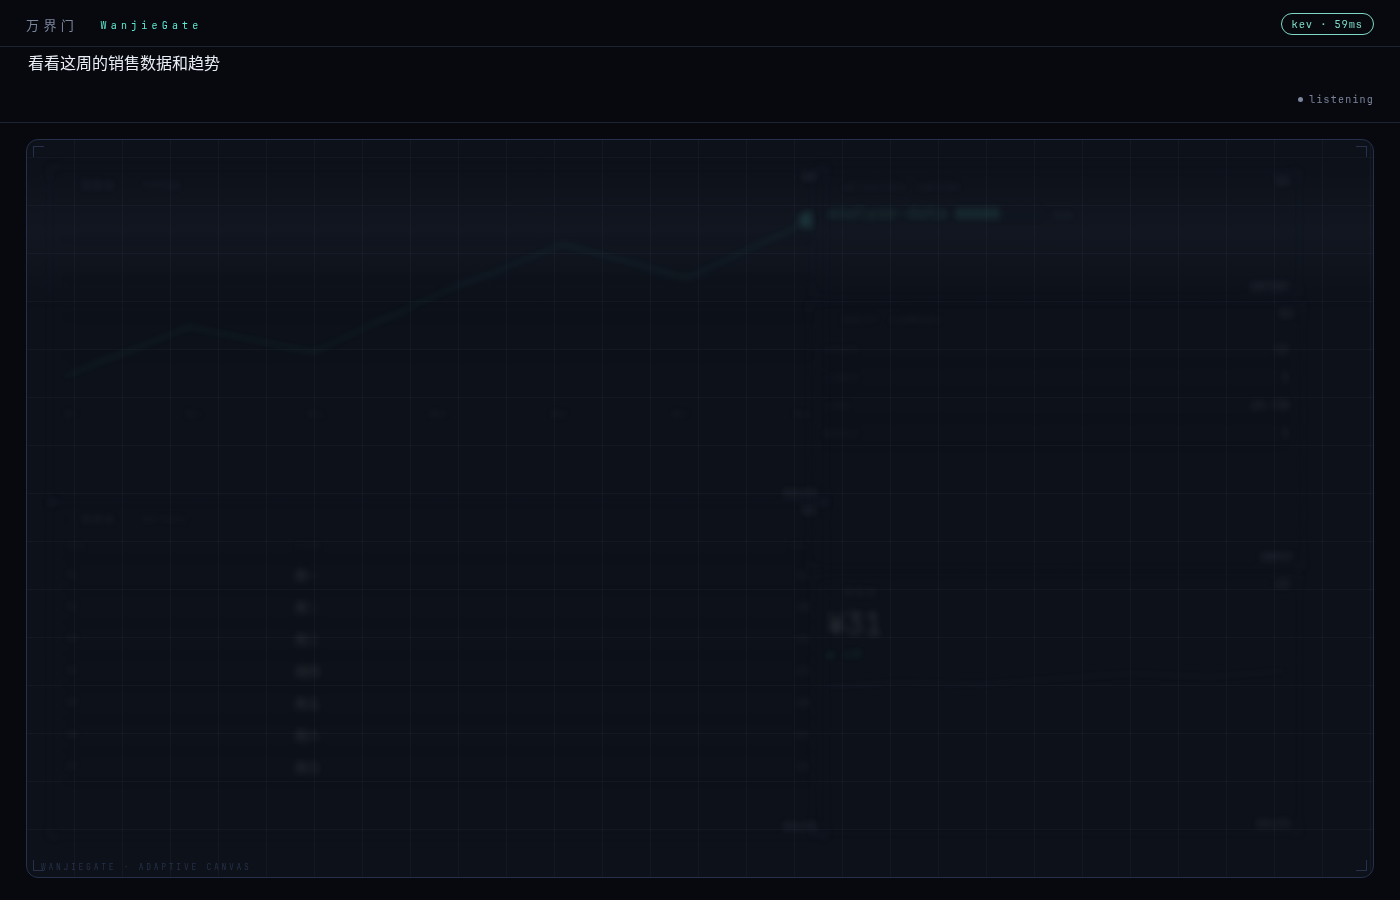
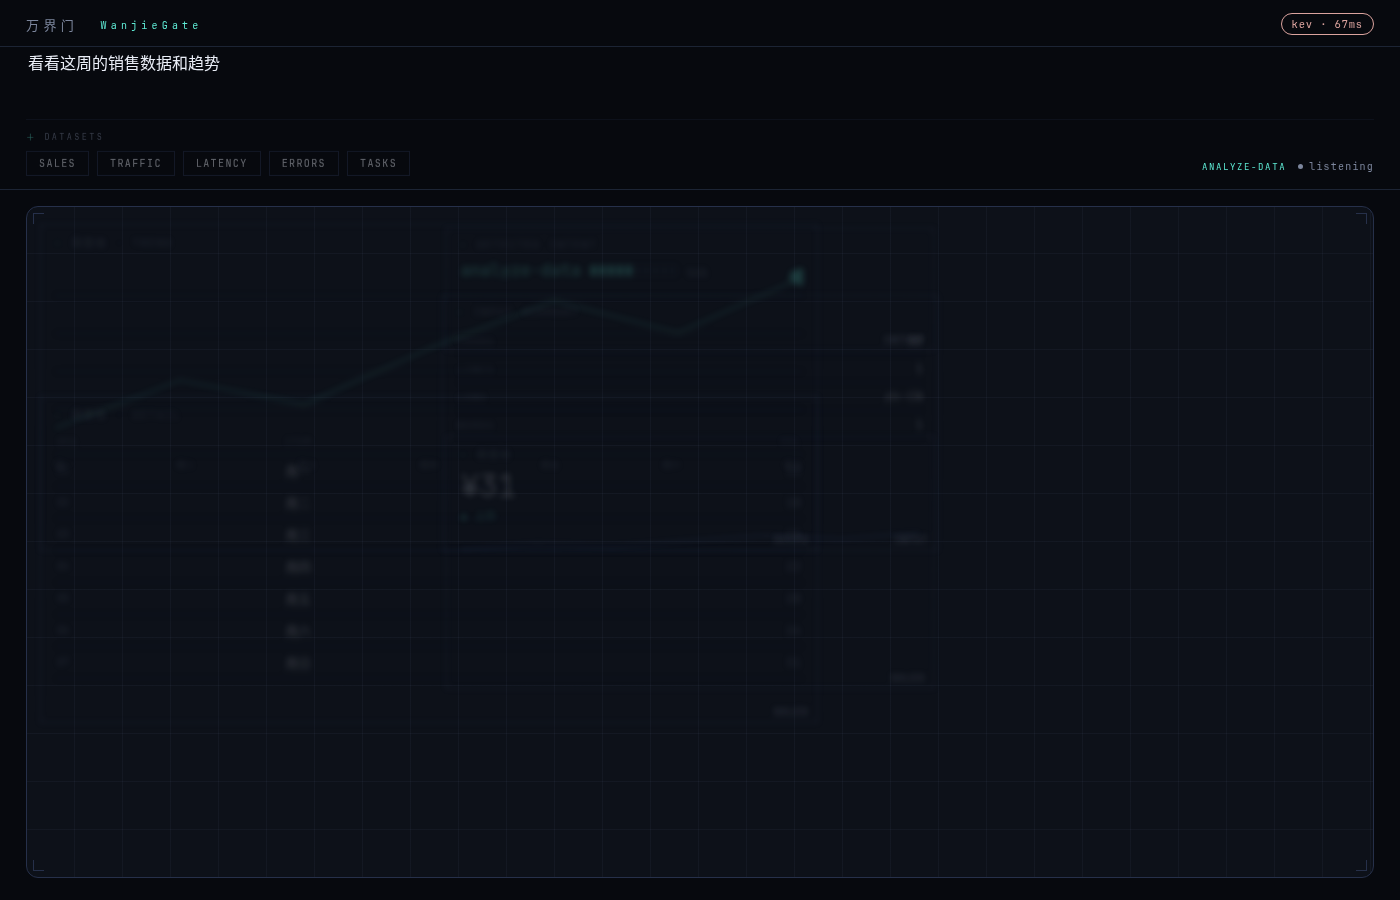
输入框自适应附件 + 回归极简线稿
- 附件素材库(manifest.attachments):photos/news/logs/tasks/datasets/
  services,每类一道 noul 二元题(0.8B 对二元题区分度远好于 7 选 1)
- 日记→今日照片条,写作→新闻列表,排查→错误日志,数据→可点击
  数据集 chips(__rebind 实时换绑),计划→任务清单,监控→服务状态
- 输入框按意图换 placeholder,pulse 区显示 mode 标签
- 砍掉 fc 角括号/idx 序号/扫描带/水印,回归极简:留真实数据标签
- selftest 新增日记语境断言(attach=photos)

Generated with [Devin](https://devin.ai)

diff --git a/static/app.js b/static/app.js
@@ -32,6 +32,8 @@ function buildQuestions() {
     q["vis_" + id] = {type: "noul", instructions: c.ask};
     if (c.bind) q["bind_" + id] = {type: "choice", instructions: c.bind.question, criteria: c.bind.options};
   }
+  for (const [ctx, a] of Object.entries(manifest.attachments || {}))
+    q["att_" + ctx] = {type: "noul", instructions: a.cue};
   return q;
 }
 
@@ -85,6 +87,18 @@ function applyAnswers(a) {
   if (a.layout) layoutMode = a.layout.choice;
   if (a.density) densityCap = [0, 2, 4, 7, 10][Math.round(a.density.score)] ?? 4;
   if (a.emphasis) emphasis = a.emphasis.choice;
+  { // 附件:取 noul 概率最高的素材类型,>0.3 才显示
+    let best = "none", bp = 0;
+    for (const ctx of Object.keys(manifest.attachments || {})) {
+      const p = a["att_" + ctx]?.noul ?? 0;
+      if (p > bp) { bp = p; best = ctx; }
+    }
+    setAttach(bp > 0.3 ? best : "none");
+  }
+  if (a.intent) {
+    $("#mode").textContent = committed ? intent.choice : "";
+    input.placeholder = (manifest.prompts || {})[intent.choice] || manifest.prompts?.explore || input.placeholder;
+  }
   const probs = {};
   for (const id of Object.keys(manifest.components))
     probs[id] = a["vis_" + id]?.noul ?? 0;
@@ -118,6 +132,49 @@ function setBinding(id, key) {
   const c = cards.get(id);
   if (c && c.bound !== key && manifest.datasets[key]) { c.bound = key; renderCard(id); }
 }
+
+/* ---------- 输入框的自适应附件 ---------- */
+const attachEl = document.getElementById("attach");
+let attachCtx = "";
+function setAttach(ctx) {
+  if (ctx === attachCtx) { attachEl.style.opacity = committed ? 1 : .5; return; }
+  attachCtx = ctx;
+  const on = ctx && ctx !== "none";
+  attachEl.innerHTML = on ? buildAttach(ctx) : "";
+  attachEl.classList.toggle("on", on);
+  attachEl.style.opacity = committed ? 1 : .5;
+}
+
+function buildAttach(ctx) {
+  const items = manifest.attachments?.[ctx]?.items;
+  const head = `<div class="a-head">${ctx}</div>`;
+  switch (ctx) {
+    case "photos":
+      return head + `<div class="a-photos">${(items || []).map(p =>
+        `<div class="a-ph" style="--h:${p.h}"><b>${p.time}</b><span>${esc(p.label)}</span></div>`).join("")}</div>`;
+    case "news":
+      return head + (items || []).map(n =>
+        `<div class="a-row"><i>${n.time}</i><b>${esc(n.src)}</b><span>${esc(n.title)}</span></div>`).join("");
+    case "logs":
+      return head + (items || []).map(l =>
+        `<div class="a-row"><i>${l.time}</i><b class="lv-${l.lvl}">${l.lvl}</b><span>${esc(l.msg)}</span></div>`).join("");
+    case "tasks": {
+      const d = manifest.datasets.tasks;
+      return head + d.rows.map(r =>
+        `<div class="a-row"><i class="tk ${r[1] === "完成" ? "done" : r[1] === "进行中" ? "doing" : ""}"></i><span>${esc(r[0])}</span><b>${r[1]}</b></div>`).join("");
+    }
+    case "datasets":
+      return head + `<div class="a-chips">${Object.keys(manifest.datasets).map(k =>
+        `<button class="a-chip" onclick="window.__rebind('${k}')">${k}</button>`).join("")}</div>`;
+    case "services":
+      return head + `<div class="a-chips">${(items || []).map(s =>
+        `<span class="a-svc ${s.ok ? "ok" : "bad"}"><i></i>${s.name}</span>`).join("")}</div>`;
+    default: return "";
+  }
+}
+window.__rebind = key => {
+  for (const [id] of cards) if (manifest.components[id].bind) setBinding(id, key);
+};
 
 /* ---------- DOM ---------- */
 function mount(id) {
@@ -247,9 +304,7 @@ function esc(s) { return s.replace(/[&<>"]/g, ch => ({"&": "&amp;", "<": "&lt;",
 function ds(key) { return manifest.datasets[key] || manifest.datasets.sales; }
 
 function chrome(id, tag) {
-  const idx = String(Object.keys(manifest.components).indexOf(id) + 1).padStart(2, "0");
-  return `<i class="fc tl"></i><i class="fc tr"></i><i class="fc bl"></i><i class="fc br"></i>` +
-    `<div class="fui-idx">${idx}</div>` + (tag ? `<div class="fui-tag">${esc(tag)}</div>` : "");
+  return tag ? `<div class="fui-tag">${esc(tag)}</div>` : "";
 }
 
 function renderCard(id) {
@@ -308,8 +363,7 @@ function renderCard(id) {
     case "alert-banner": {
       el.classList.add("banner");
       const ts = new Date().toLocaleTimeString("en-GB");
-      el.innerHTML = `<i class="fc tl"></i><i class="fc tr"></i><i class="fc bl"></i><i class="fc br"></i>
-        <span class="dot"></span><div class="btxt">${esc(first || "需要关注")}</div><div class="fui-tag">alrt · ${ts}</div>`;
+      el.innerHTML = `<span class="dot"></span><div class="btxt">${esc(first || "需要关注")}</div><div class="fui-tag">alrt · ${ts}</div>`;
       break;
     }
     case "action-bar": {
@@ -368,6 +422,8 @@ async function mockDecide() {
   const ip = {}; for (const [k] of intentMap) ip[k] = 0.05; ip.explore = 0.1;
   if (top) ip[top[0]] = 0.7; else ip.explore = 0.6;
   answers.intent = {type: "choice", choice: top ? top[0] : "explore", confidence: top ? 0.7 : 0.3, probabilities: ip};
+  const ctxMap = [["photos", /日记|照片|今天.*拍|journal|diary/i], ["news", /文章|新闻|报道|article|news|essay/i], ["logs", /错误|日志|bug|报错|log/i], ["tasks", /任务|计划|安排|todo|task/i], ["datasets", /数据|营收|sales|traffic|chart/i], ["services", /服务|监控|status|service/i]];
+  for (const [ctx, kw] of ctxMap) answers["att_" + ctx] = {type: "noul", noul: kw.test(latestText) ? 0.8 : 0.15};
   answers.layout = {type: "choice", choice: latestText.length < 4 ? "empty" : (Object.values(answers).filter(a => a.noul > SOLID).length > 3 ? "dashboard" : "split"), probabilities: {}};
   answers.density = {type: "score", score: latestText.length < 4 ? 0 : 3, probabilities: {}, legend: {}};
   answers.emphasis = {type: "choice", choice: "none", probabilities: {}};
@@ -391,6 +447,11 @@ function renderDebug() {
 
 function clearScene() {
   committed = false; layoutMode = "empty";
+  intent = {choice: "explore", confidence: 0};
+  setAttach("none"); attachCtx = "";
+  attachEl.innerHTML = ""; attachEl.classList.remove("on");
+  $("#mode").textContent = "";
+  input.placeholder = manifest.prompts?.explore || "";
   for (const c of cards.values()) { c.prob = 0; c.target = 0; c.el.dataset.p = "0"; c.el.dataset.target = "0"; }
   dirty.layout = dirty.debug = true;
 }

diff --git a/static/styles.css b/static/styles.css
@@ -50,8 +50,44 @@ header {
 }
 #input::placeholder { color: #39425a; }
 #pulse { position: absolute; right: 26px; bottom: 16px; font-size: 10px; letter-spacing: .12em; color: var(--dim); display: flex; gap: 6px; align-items: center; }
+#mode { color: var(--accent); font-size: 9px; letter-spacing: .18em; margin-right: 6px; text-transform: uppercase; }
 #pulse-dot { width: 5px; height: 5px; border-radius: 50%; background: var(--dim); transition: background .2s; }
 #pulse.thinking #pulse-dot { background: var(--accent); box-shadow: 0 0 8px var(--accent); }
+
+/* ---------- 输入框的自适应附件 ---------- */
+#attach { max-height: 0; overflow: hidden; opacity: 0; transform: translateY(-4px);
+  transition: max-height .55s cubic-bezier(.22,1.1,.3,1), opacity .4s, transform .55s cubic-bezier(.22,1.1,.3,1); }
+#attach.on { max-height: 160px; opacity: 1; transform: none; margin-top: 10px; border-top: 1px solid var(--line); padding-top: 10px; }
+.a-head { font-size: 8.5px; letter-spacing: .28em; text-transform: uppercase; color: var(--dim); margin-bottom: 8px; }
+.a-head::before { content: "＋ "; color: var(--accent); }
+.a-photos { display: flex; gap: 8px; }
+.a-ph { width: 88px; height: 62px; flex: none; position: relative; overflow: hidden;
+  background: linear-gradient(150deg, hsl(var(--h), 30%, 22%), hsl(var(--h), 45%, 12%));
+  border: 1px solid var(--hair); }
+.a-ph b { position: absolute; top: 5px; left: 7px; font-size: 8px; font-weight: 400; letter-spacing: .14em; color: rgba(235,240,250,.7); }
+.a-ph span { position: absolute; bottom: 5px; left: 7px; right: 7px; font-size: 8.5px; color: rgba(235,240,250,.85); white-space: nowrap; overflow: hidden; text-overflow: ellipsis; }
+.a-row { display: flex; align-items: baseline; gap: 12px; padding: 5px 0; border-bottom: 1px solid var(--line); font-size: 12px; }
+.a-row:last-child { border-bottom: none; }
+.a-row i { font-style: normal; font-size: 9px; color: var(--dim); letter-spacing: .08em; min-width: 46px; }
+.a-row b { font-weight: 400; font-size: 9px; letter-spacing: .18em; color: var(--accent-2); text-transform: uppercase; min-width: 52px; }
+.a-row b.lv-err { color: var(--warn); }
+.a-row b.lv-warn { color: #e0b56a; }
+.a-row b.lv-info { color: var(--dim); }
+.a-row span { color: var(--text); font-size: 11.5px; }
+.a-row > b:last-child { margin-left: auto; color: var(--dim); font-size: 9.5px; }
+.a-row .tk { width: 7px; height: 7px; border: 1px solid var(--dim); min-width: 7px; align-self: center; }
+.a-row .tk.done { background: var(--accent); border-color: var(--accent); }
+.a-row .tk.doing { border-color: var(--accent); }
+.a-chips { display: flex; gap: 8px; flex-wrap: wrap; }
+.a-chip { font: inherit; font-size: 10px; letter-spacing: .14em; text-transform: uppercase; padding: 5px 12px;
+  background: transparent; border: 1px solid var(--hair); color: var(--text); cursor: pointer; transition: all .18s; }
+.a-chip:hover { border-color: var(--accent); color: var(--accent); }
+.a-svc { display: inline-flex; align-items: center; gap: 7px; font-size: 10px; letter-spacing: .16em; text-transform: uppercase;
+  border: 1px solid var(--hair); padding: 5px 10px; color: var(--dim); }
+.a-svc i { width: 6px; height: 6px; border-radius: 50%; background: var(--dim); }
+.a-svc.ok i { background: var(--accent); }
+.a-svc.bad { color: var(--text); border-color: rgba(255,143,143,.45); }
+.a-svc.bad i { background: var(--warn); box-shadow: 0 0 6px var(--warn); }
 
 /* ---------- 画布:一整个被分划的空间 ---------- */
 #stage {
@@ -73,25 +109,11 @@ header {
 #stage .reg.br { bottom: 6px; right: 6px; border-left: none; border-top: none; }
 #app.idle #stage { opacity: 0; pointer-events: none; }
 
-/* ---------- FUI 骨架:角括号 / 序号 / 数据标签,随线速出现 ---------- */
-.card > .fc, .card > .fui-idx, .card > .fui-tag { opacity: 1; }
-.fc { position: absolute; width: 9px; height: 9px; border: 1px solid var(--hair); }
-.fc.tl { top: 3px; left: 3px; border-right: 0; border-bottom: 0; }
-.fc.tr { top: 3px; right: 3px; border-left: 0; border-bottom: 0; }
-.fc.bl { bottom: 3px; left: 3px; border-right: 0; border-top: 0; }
-.fc.br { bottom: 3px; right: 3px; border-left: 0; border-top: 0; }
-.fui-idx { position: absolute; top: 8px; right: 12px; font-size: 9px; letter-spacing: .24em; color: var(--dim); }
+/* ---------- 真实数据标签(无装饰性骨架) ---------- */
+.card > .fui-tag { opacity: 1; }
 .fui-tag { position: absolute; bottom: 8px; right: 12px; font-size: 8.5px; letter-spacing: .22em; color: var(--dim); text-transform: uppercase; }
 .fui-lbl { font-size: 9px; letter-spacing: .24em; color: var(--dim); text-transform: uppercase; margin-right: 10px; }
 .fui-axis { display: flex; justify-content: space-between; font-size: 8.5px; letter-spacing: .12em; color: var(--dim); margin-top: 6px; }
-
-/* 慢速扫描亮带,FUI 的"活" */
-.scan { position: absolute; left: 0; right: 0; top: -22%; height: 22%; z-index: 0;
-  background: linear-gradient(180deg, transparent, rgba(140,160,210,.04), transparent);
-  animation: scan 16s linear infinite; pointer-events: none; }
-@keyframes scan { to { transform: translateY(600%); } }
-#stage::after { content: "wanjiegate · adaptive canvas"; position: absolute; bottom: 5px; left: 14px;
-  font-size: 8px; letter-spacing: .34em; color: var(--hair); text-transform: uppercase; pointer-events: none; }
 
 /* ---------- 区域:没有底色,边界线由 JS 按 materialize 逐帧拉出 ---------- */
 .card {

diff --git a/static/index.html b/static/index.html
@@ -17,12 +17,12 @@
   <section id="composer">
     <textarea id="input" autofocus spellcheck="false"
       placeholder="随便说点什么——页面会随着你的话自己长出来。"></textarea>
-    <div id="pulse"><span id="pulse-dot"></span><span id="pulse-text">listening</span></div>
+    <div id="pulse"><span id="mode"></span><span id="pulse-dot"></span><span id="pulse-text">listening</span></div>
+    <div id="attach"></div>
   </section>
 
   <section id="stage" aria-live="polite">
     <i class="reg tl"></i><i class="reg tr"></i><i class="reg bl"></i><i class="reg br"></i>
-    <div class="scan"></div>
   </section>
 
   <aside id="debug" class="hidden"></aside>

diff --git a/tools/selftest.py b/tools/selftest.py
@@ -16,7 +16,9 @@ def state(page, tag):
         "ghost: e.classList.contains('ghost'), emph: e.classList.contains('emph')}))")
     idle = page.eval_on_selector("#app", "e => e.classList.contains('idle')")
     conn = page.text_content("#conn")
-    print(f"[{tag}] idle={idle} conn={conn!r} cards={json.dumps(cards, ensure_ascii=False)}")
+    attach = page.eval_on_selector("#attach", "e => e.className + ':' + e.childElementCount")
+    mode = page.eval_on_selector("#mode", "e => e.textContent")
+    print(f"[{tag}] idle={idle} conn={conn!r} attach={attach} mode={mode!r} cards={json.dumps(cards, ensure_ascii=False)}")
     page.screenshot(path=f"{SHOTS}/{tag}.png")
     return cards, idle
 
@@ -77,6 +79,15 @@ with sync_playwright() as pw:
     cards, idle = state(page, "5-cleared")
     assert idle, "清空后应回到 idle"
     assert not [c for c in cards if c["op"] > 0.05], "清空后卡片应散尽"
+
+    # 5) 日记语境 → 输入框应自动配上"今日照片"附件
+    page.fill("#input", "今天拍了好多照片,记个日记吧")
+    page.wait_for_timeout(2200)
+    cards, _ = state(page, "6-diary")
+    attach_head = page.eval_on_selector("#attach .a-head", "e => e.textContent") if page.locator("#attach .a-head").count() else None
+    n_ph = page.locator("#attach .a-ph").count()
+    print(f"  attach={attach_head} photos={n_ph}")
+    assert attach_head == "photos" and n_ph >= 3, f"日记语境应召出照片附件(got head={attach_head}, n={n_ph})"
 
     browser.close()
 
